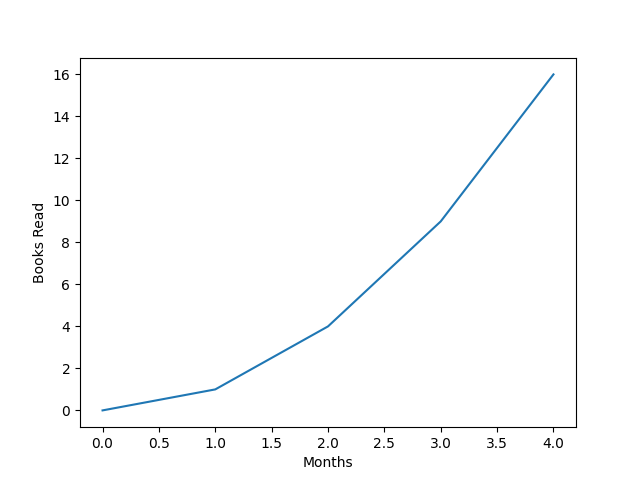
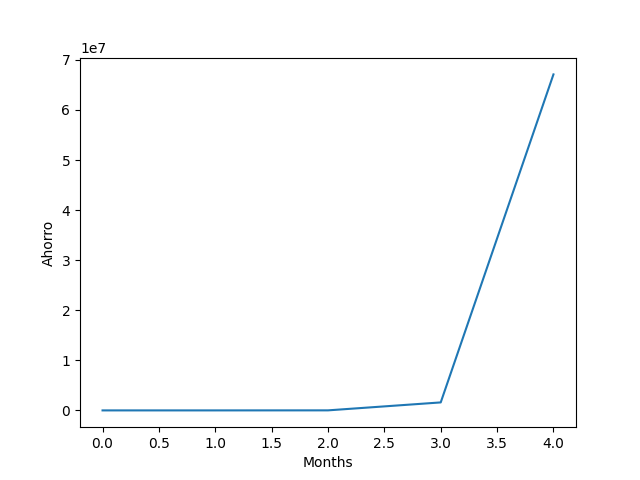
Agg pow

diff --git a/templates/index.html b/templates/index.html
@@ -8,10 +8,10 @@
 
       <form action="#" method="post">
         <p>Entrar Aportes:</p>
-        <p><label>Empleado: <input type="text" name="apemp" id="ap1"></label> {{ dato }} </p>
-        <p>Patronal&nbsp;&nbsp;&nbsp;: <input type="text" name="appat" id="ap2"></p>
+        <p><label>Empleado: <input type="text" name="apemp" id="ap1"></label> {{ indexarg[0] }} </p>
+        <p>Patronal&nbsp;&nbsp;&nbsp;: <input type="text" name="appat" id="ap2">  {{ indexarg[1] }}</p>
         <p>Entrar Aumento Máximo:</p>
-        <p>Porcentaje: <input type="text" name="aumento" id="au1"></p>
+        <p>Porcentaje: <input type="text" name="aumento" id="au1"></label> {{ indexarg[2] }}</p>
         <button type="submit" class="btn btn-primary">ENVIAR</button>
       </form>
     </div>
@@ -28,7 +28,7 @@
   <i>
     <center>
       <p>Aportes y Rentas </p>
-      <p>dato es {{ dato }}</p>
+      <p>indexarg es {{ indexarg }}</p>
     </center>
   </i>
 </h3>

diff --git a/templates/about.html b/templates/about.html
@@ -3,7 +3,7 @@
 {% block content %}
 <!-- <h1> About  dato es {{dato}} </h1> -->
 <div class="jumbotron"  >
-    <h1 class="display-3">About  dato es {{dato}}</h1>
+    <h1 class="display-3">About  <i>{{aboutarg}}</i></h1>
     <p class="lead">Jumbo helper text</p>
     <hr class="my-2">
     <p>More info</p>

diff --git a/main.py b/main.py
@@ -1,9 +1,14 @@
 from flask import Flask, render_template, request
 import requests
-import numpy as numpy
+import numpy as np
 import os
 import matplotlib
 import matplotlib.pyplot as plt
+matplotlib.use('Agg')
+
+aintold=1
+bintold=2
+cintold=0
 
 ## matplotlib.use('Agg')    parte de solucion en stackoverflow
 ## a busqueda flask RuntimeError: main thread is not in main loop
@@ -26,9 +31,13 @@ import matplotlib.pyplot as plt
 # finame=place+'/'+'fig1'+exte
 # print('archivo = ',finame)
 
-def pywork(a,b,c):
+def pywork(aint,bint,cint):
     print('genero grafico en subrutina de trabajo')
-    plt.plot([0, 1, 2, 3, 4], [0, 1, 4, 9, 16])
+    x=np.array([0, 1, 2, 3, 4])
+    
+    y=np.power(x,aint)
+
+    plt.plot(x,y)
     plt.xlabel('Months')
     plt.ylabel('Ahorro') 
     print('salvo grafico sin mostrar')
@@ -36,34 +45,39 @@ def pywork(a,b,c):
     plt.savefig('assets/figUno.png') ## problemas despues de enviar !!!!!!!!!!!!!!!!!!
 
     plt.close() ## solucion al problema RuntimeError: main thread is not in main loop ?
-    return 
+    [aintold,bintold,cintold]=[aint,bint,cint]
+    return [aint,bint,cint]
 
 app = Flask(__name__, static_folder='assets', static_url_path='/assets')
 
 
 @app.route('/', methods=['POST','GET'])
 def index():
-    
+     
     if request.method == 'GET':
         ## es la primera vez
-        return render_template('index.html', dato = 21)
+        dato=pywork(aintold,bintold,cintold)
+        return render_template('index.html', indexarg=dato)
 
     if request.method == 'POST':
         if(request.form['apemp'] == '' or request.form['appat'] == '' or request.form['aumento'] == ''):
             ## submit sin entrar datos
-            return "<html><body> <h1>Invalid number</h1></body></html>"
+            return "<html><body> <h1>Invalid number</h1></body></html>" ## trae problemas mejorar
         else:
-            print(request.form['apemp'],request.form['appat'])
+            aint=int(request.form['apemp'])
+            bint=int(request.form['appat'])
+            cint=int(request.form['aumento'])
+            print(aint,bint,cint)
             ## trabajo generar y salvar grafico
-            pywork(request.form['apemp'],request.form['appat'],0)    
+            dato=pywork(aint,bint,cint)    
             
             
-            return render_template('index.html', dato = 22)
+            return render_template('index.html', indexarg=dato )
 
 @app.route('/about', methods=['POST','GET'])
 def about():  
     
-    return render_template('about.html', dato = 44)        
+    return render_template('about.html', aboutarg='this and me')        
 
 if __name__ == '__main__':
     app.run(debug=True, port=os.getenv("PORT", default=5000))
